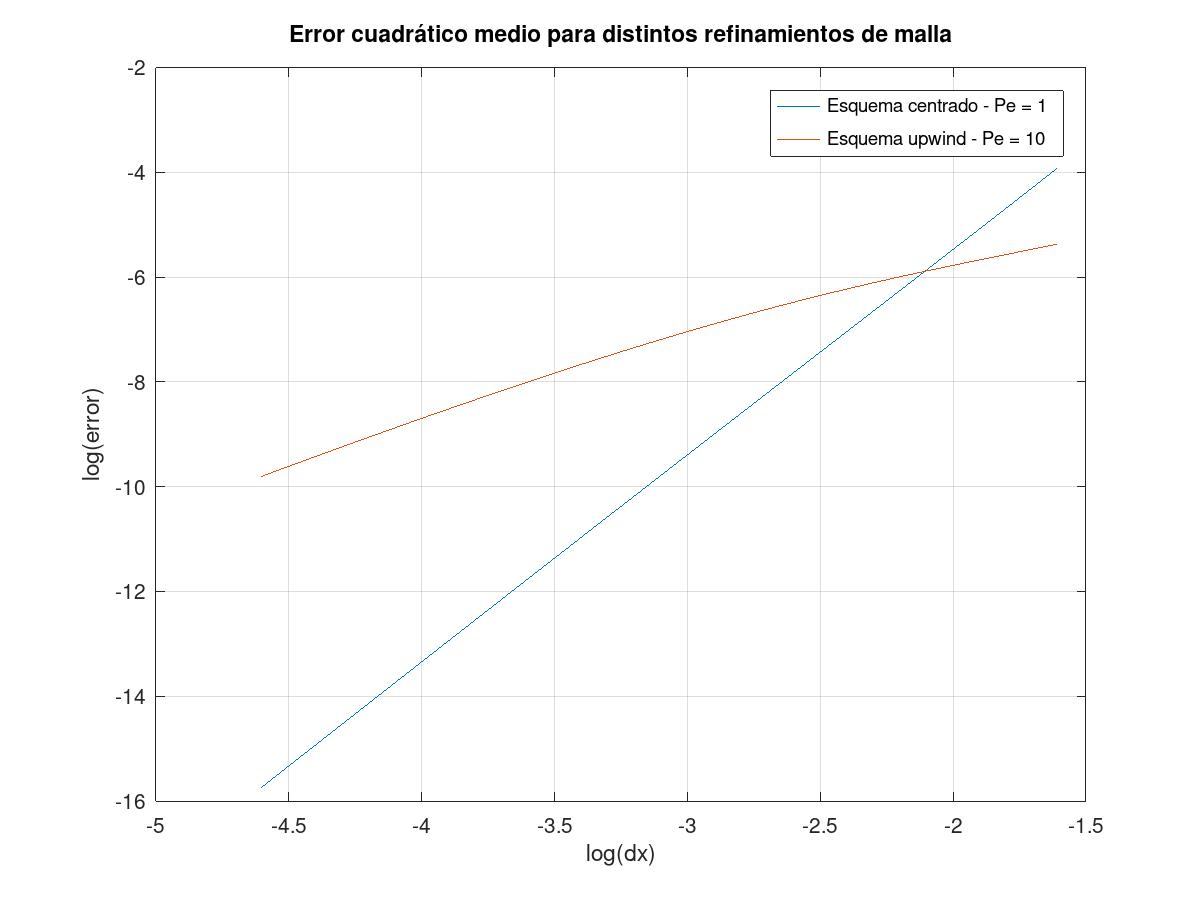
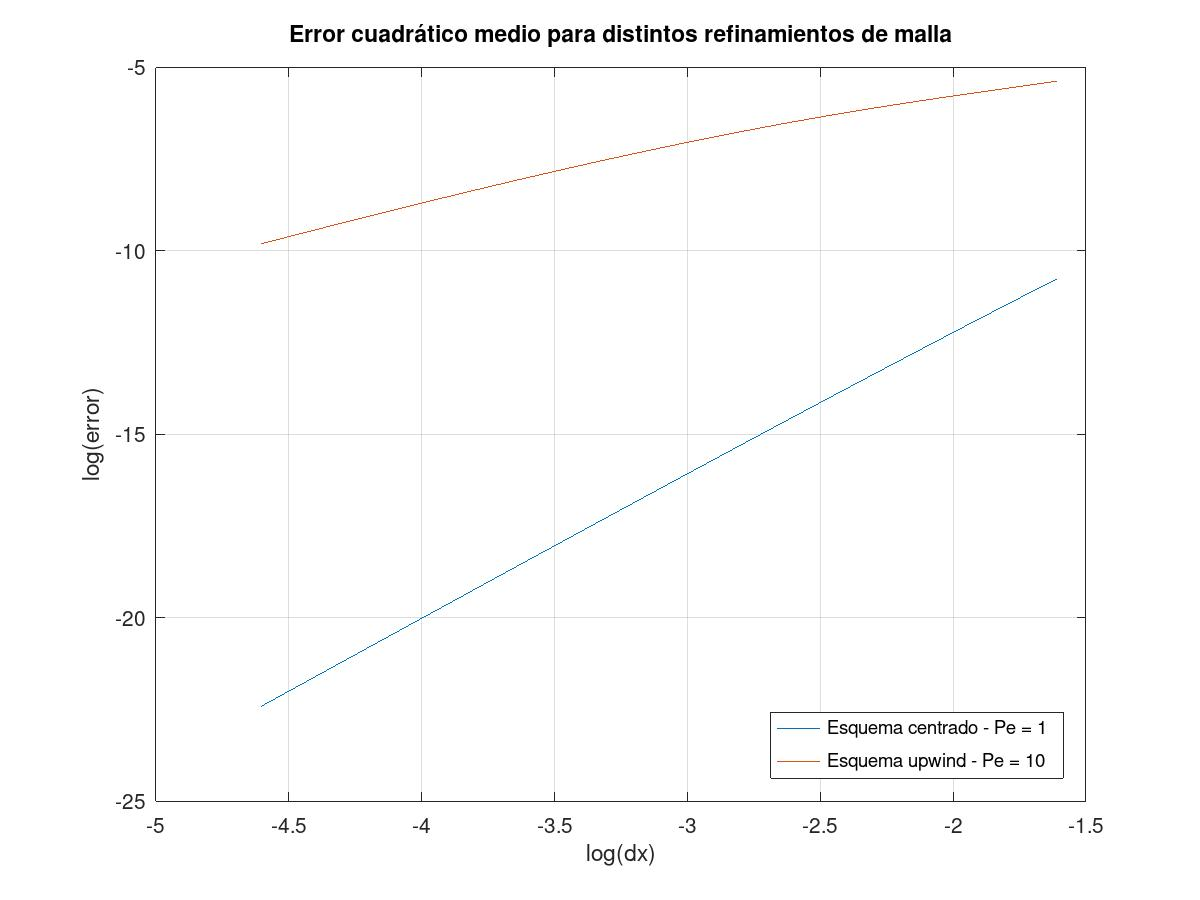
Trabajo1dVol

diff --git a/Trabajo 1d Vol/ejer1b.m b/Trabajo 1d Vol/ejer1b.m
@@ -1,4 +1,4 @@
-source "volFinitos.m"
+%source "volFinitos.m"
 
 model = struct();
 model.k = 1;
@@ -8,7 +8,7 @@ model.xI = 0;
 model.xF = 1;
 model.G = 0 ;
 model.upwind = 0;
-Pe = 10;
+Pe = 1;
 model.v = Pe;
 et = 0;
 cb = [[1,1,-1] ; [1,0,-1]];
@@ -40,9 +40,9 @@ for i = iter
 	e(i-4) = sum((T2-T1).^2) / length(xnodeV);
 end
 
-figure(1)
+figure
 plot(log(dxV), log(e), log(dxV), log(e2))
-legend("Esquema centrado - Pe = 1", "Esquema upwind - Pe = 10")
+legend("Esquema centrado - Pe = 1", "Esquema upwind - Pe = 10", "location", "southeast")
 title("Error cuadrático medio para distintos refinamientos de malla")
 xlabel("log(dx)")
 ylabel("log(error)")

diff --git a/Trabajo 1d Vol/getSystemVol.m b/Trabajo 1d Vol/getSystemVol.m
@@ -1,6 +1,6 @@
-source "getMatrixTriang.m"
-source "getCondicionIzqVol.m"
-source "getCondicionDerVol.m"
+%source "getMatrixTriang.m"
+%source "getCondicionIzqVol.m"
+%source "getCondicionDerVol.m"
 
 function [M, F] =  getSystemVol(N, model, cb)
 	k = model.k;

diff --git a/Trabajo 1d Vol/volFinitos.m b/Trabajo 1d Vol/volFinitos.m
@@ -1,6 +1,6 @@
-source "getSystemVol.m"
-source "getBordesIzqVol.m"
-source "getBordesDerVol.m"
+%source "getSystemVol.m"
+%source "getBordesIzqVol.m"
+%source "getBordesDerVol.m"
 
 
 function [xnode, T] = volFinitos (model, cb, et)

diff --git a/Trabajo 1d Vol/ejer1.m b/Trabajo 1d Vol/ejer1.m
@@ -1,4 +1,4 @@
-source "volFinitos.m"
+%source "volFinitos.m"
 
 model = struct();
 model.k = 1;
